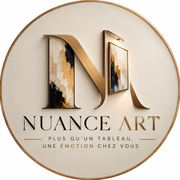
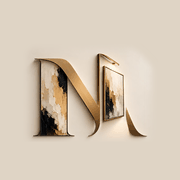
Audit SEO : icones, manifeste, donnees structurees, images
- Favicon au monogramme, lisible a 16 px, coins transparents ; favicon.ico,
  manifeste web et icones 512 (dont masquable) ; logo 56 -> 20 Ko
- JSON-LD : plus d'aggregateRating (notes de demonstration), logo du Store
  au lieu d'og.jpg inexistant, URL absolues avec barre finale, promo
  appliquee aux deux bornes de prix, collections en ItemList
- Descriptions ramenees sous ~160 caracteres, titres sans doublon de marque,
  image de partage sur les pages collection
- Accueil : vignettes 520 px + srcset pour la cimaise et les collections
  au lieu des originaux de 1400 px

diff --git a/app/(boutique)/tableaux/[slug]/page.js b/app/(boutique)/tableaux/[slug]/page.js
@@ -20,16 +20,24 @@ export async function generateStaticParams() {
   return produits.map((p) => ({ slug: p.slug }));
 }
 
+/* Google coupe vers 155-160 caracteres : on coupe nous-memes, sur un mot,
+   plutot que de laisser tomber la fin au hasard d'un titre long. */
+function resume(texte, max = 158) {
+  if (texte.length <= max) return texte;
+  return `${texte.slice(0, max - 1).replace(/[\s,;:.—-]+\S*$/, '')}…`;
+}
+
 export async function generateMetadata({ params }) {
   const { slug } = await params;
   const p = await lireProduit(slug);
   if (!p) return { title: 'Œuvre introuvable' };
   return {
     title: `${p.titre} — ${p.artiste}`,
-    description:
-      `${p.titre} de ${p.artiste}, tirage d’art imprimé et encadré à Casablanca. `
-      + `Cinq formats de ${p.tailles[0].l} × ${p.tailles[0].h} à ${p.tailles.at(-1).l} × ${p.tailles.at(-1).h} cm. `
-      + 'Essayez l’œuvre sur la photo de votre mur avant de commander.',
+    description: resume(
+      `${p.titre} (${p.artiste}), tirage d’art encadré à Casablanca en ${p.tailles.length} formats, `
+      + `du ${p.tailles[0].l} × ${p.tailles[0].h} au ${p.tailles.at(-1).l} × ${p.tailles.at(-1).h} cm. `
+      + 'Essayez-le sur la photo de votre mur.',
+    ),
     alternates: { canonical: `/tableaux/${p.slug}` },
     openGraph: {
       title: `${p.titre} — Nuance Art`,
@@ -63,19 +71,17 @@ export default async function PageProduit({ params }) {
     description: produit.description,
     brand: { '@type': 'Brand', name: 'Nuance Art' },
     category: nomTheme(produit.theme),
-    aggregateRating: {
-      '@type': 'AggregateRating',
-      ratingValue: produit.note.toFixed(1),
-      reviewCount: produit.avis,
-    },
+    // Pas d'aggregateRating : les notes du catalogue sont des valeurs de
+    // demonstration (scripts/build_catalogue.mjs), pas des avis clients. Les
+    // declarer a Google enfreint sa politique sur les avis (action manuelle).
     offers: {
       '@type': 'AggregateOffer',
       priceCurrency: 'MAD',
       lowPrice: Math.round(produit.tailles[0].prix * (1 - (produit.promo || 0) / 100)),
-      highPrice: produit.tailles.at(-1).prix,
+      highPrice: Math.round(produit.tailles.at(-1).prix * (1 - (produit.promo || 0) / 100)),
       offerCount: produit.tailles.length,
       availability: 'https://schema.org/InStock',
-      url: `${SITE}/tableaux/${produit.slug}`,
+      url: `${SITE}/tableaux/${produit.slug}/`,
     },
   };
 
@@ -83,9 +89,9 @@ export default async function PageProduit({ params }) {
     '@context': 'https://schema.org',
     '@type': 'BreadcrumbList',
     itemListElement: [
-      { '@type': 'ListItem', position: 1, name: 'Accueil', item: SITE },
-      { '@type': 'ListItem', position: 2, name: 'Tableaux', item: `${SITE}/tableaux` },
-      { '@type': 'ListItem', position: 3, name: nomTheme(produit.theme), item: `${SITE}/collections/${produit.theme}` },
+      { '@type': 'ListItem', position: 1, name: 'Accueil', item: `${SITE}/` },
+      { '@type': 'ListItem', position: 2, name: 'Tableaux', item: `${SITE}/tableaux/` },
+      { '@type': 'ListItem', position: 3, name: nomTheme(produit.theme), item: `${SITE}/collections/${produit.theme}/` },
       { '@type': 'ListItem', position: 4, name: produit.titre },
     ],
   };

diff --git a/app/(boutique)/collections/[theme]/page.js b/app/(boutique)/collections/[theme]/page.js
@@ -11,6 +11,8 @@ import { THEMES, THEME_PAR_SLUG } from '@/lib/taxonomie';
    Sans effet sur l'export statique, qui ignore la revalidation. */
 export const revalidate = 120;
 
+const SITE = process.env.NEXT_PUBLIC_SITE_URL || 'http://localhost:3210';
+
 
 export function generateStaticParams() {
   return THEMES.map((t) => ({ theme: t.slug }));
@@ -20,11 +22,14 @@ export async function generateMetadata({ params }) {
   const { theme } = await params;
   const t = THEME_PAR_SLUG[theme];
   if (!t) return {};
+  const premiere = (await lireProduits()).find((p) => p.theme === theme);
   return {
     title: `${t.nom} — tableaux et affiches`,
-    description: `${t.seo} Imprimé et encadré à Casablanca, livré en 48 h au Maroc. Essayez l’œuvre sur la photo de votre mur avant de commander.`,
+    description: `${t.seo} Imprimé et encadré à Casablanca, livré en 48 h au Maroc.`,
     alternates: { canonical: `/collections/${t.slug}` },
-    openGraph: { title: `${t.nom} — Nuance Art`, description: t.accroche },
+    // Un openGraph declare ici remplace celui du parent, image comprise :
+    // sans cette ligne, la page se partage sans visuel.
+    openGraph: { title: `${t.nom} — Nuance Art`, description: t.accroche, images: premiere ? [{ url: premiere.image }] : undefined },
   };
 }
 
@@ -41,12 +46,19 @@ export default async function PageCollection({ params }) {
     '@type': 'CollectionPage',
     name: t.nom,
     description: t.seo,
-    hasPart: produits.slice(0, 12).map((p) => ({
-      '@type': 'Product',
-      name: p.titre,
-      image: p.image,
-      offers: { '@type': 'Offer', price: p.prixMin, priceCurrency: 'MAD' },
-    })),
+    url: `${SITE}/collections/${t.slug}/`,
+    // Une liste de liens vers les fiches, qui portent chacune leur Product
+    // complet : Google ne lit pas de Product sans page propre ni URL.
+    mainEntity: {
+      '@type': 'ItemList',
+      numberOfItems: produits.length,
+      itemListElement: produits.slice(0, 20).map((p, i) => ({
+        '@type': 'ListItem',
+        position: i + 1,
+        url: `${SITE}/tableaux/${p.slug}/`,
+        name: p.titre,
+      })),
+    },
   };
 
   return (

diff --git a/app/(boutique)/page.js b/app/(boutique)/page.js
@@ -22,9 +22,8 @@ export const revalidate = 120;
 export const metadata = {
   title: 'Nuance Art — Calligraphie, zellige et art traditionnel encadrés',
   description:
-    'Calligraphies arabes, zelliges, tapis anciens et enluminures, imprimés au pigment et '
-    + 'encadrés à Casablanca. Une galerie d’art traditionnel pensée pour les intérieurs '
-    + 'marocains. Livraison 48 h partout au Maroc.',
+    'Calligraphies arabes, zelliges, tapis anciens et enluminures imprimés au pigment et '
+    + 'encadrés à Casablanca, pour les intérieurs marocains. Livraison 48 h au Maroc.',
   alternates: { canonical: '/' },
 };
 
@@ -92,7 +91,7 @@ export default async function Accueil() {
 
   // une image de couverture et un décompte par collection
   const couvertures = Object.fromEntries(
-    THEMES.map((t) => [t.slug, produits.find((p) => p.theme === t.slug)?.image]),
+    THEMES.map((t) => [t.slug, produits.find((p) => p.theme === t.slug)]),
   );
   const compte = produits.reduce((acc, p) => ({ ...acc, [p.theme]: (acc[p.theme] || 0) + 1 }), {});
 
@@ -204,9 +203,19 @@ export default async function Accueil() {
         </Reveal>
 
         <div className="collections">
-          {THEMES.slice(0, 7).map((t) => (
+          {THEMES.slice(0, 7).map((t, i) => (
             <Link key={t.slug} href={`/collections/${t.slug}`} className="col-card">
-              {couvertures[t.slug] && <img src={couvertures[t.slug]} alt="" loading="lazy" />}
+              {couvertures[t.slug] && (
+                // la vignette de 520 px suffit aux petites cartes ; l'original ne
+                // part que pour la grande carte d'un ecran dense
+                <img
+                  src={couvertures[t.slug].thumb}
+                  srcSet={`${couvertures[t.slug].thumb} 520w, ${couvertures[t.slug].image} 1400w`}
+                  sizes={i === 0 ? '(max-width: 779px) 45vw, 560px' : '(max-width: 779px) 45vw, 280px'}
+                  alt=""
+                  loading="lazy"
+                />
+              )}
               <div>
                 <h3>{t.nom}</h3>
                 <span>{compte[t.slug] || 0} œuvres</span>

diff --git a/app/(boutique)/bestsellers/page.js b/app/(boutique)/bestsellers/page.js
@@ -11,12 +11,14 @@ import { IcoFleche } from '@/components/Icones';
    Sans effet sur l'export statique, qui ignore la revalidation. */
 export const revalidate = 120;
 
+const SITE = process.env.NEXT_PUBLIC_SITE_URL || 'http://localhost:3210';
+
 
 export const metadata = {
   title: 'Best-sellers — les tableaux les plus vendus',
   description:
     'Les œuvres les plus commandées chez Nuance Art : calligraphies, zelliges, tapis anciens '
-    + 'et enluminures encadrés à Casablanca. Notes clients, formats, livraison 48 h au Maroc.',
+    + 'et enluminures encadrés à Casablanca, livrés en 48 h au Maroc.',
   alternates: { canonical: '/bestsellers' },
 };
 
@@ -41,7 +43,7 @@ export default async function PageBestsellers() {
     itemListElement: best.slice(0, 20).map((p, i) => ({
       '@type': 'ListItem',
       position: i + 1,
-      url: `/tableaux/${p.slug}`,
+      url: `${SITE}/tableaux/${p.slug}/`,
       name: p.titre,
     })),
   };

diff --git a/app/manifest.js b/app/manifest.js
@@ -1,0 +1,22 @@
+// Exige par l'export statique (BUILD_TARGET=static), sans effet sinon.
+export const dynamic = 'force-static';
+
+/* Manifeste web : nom et icones quand on ajoute le site a l'ecran d'accueil
+   (Android, Chrome, Edge). Les couleurs reprennent le fond sombre de l'entete. */
+export default function manifest() {
+  return {
+    name: 'Nuance Art — Art traditionnel encadré au Maroc',
+    short_name: 'Nuance Art',
+    description: 'Calligraphie, zellige, tapis anciens et enluminures, imprimés et encadrés à Casablanca.',
+    lang: 'fr',
+    start_url: '/',
+    display: 'standalone',
+    background_color: '#16120e',
+    theme_color: '#16120e',
+    icons: [
+      { src: '/icon.png', sizes: '192x192', type: 'image/png' },
+      { src: '/icon-512.png', sizes: '512x512', type: 'image/png' },
+      { src: '/icon-maskable-512.png', sizes: '512x512', type: 'image/png', purpose: 'maskable' },
+    ],
+  };
+}

diff --git a/app/(boutique)/personnaliser/page.js b/app/(boutique)/personnaliser/page.js
@@ -2,10 +2,10 @@ import Link from 'next/link';
 import Personnaliser from '@/components/Personnaliser';
 
 export const metadata = {
-  title: 'Personnaliser mon tableau — votre photo imprimée et encadrée',
+  title: 'Personnaliser mon tableau — votre photo encadrée',
   description:
-    'Envoyez votre photo, choisissez le format et le cadre, et recevez votre tableau '
-    + 'imprimé au pigment et encadré à la main à Casablanca. Livraison 48 h partout au Maroc.',
+    'Envoyez votre photo, choisissez format et cadre : votre tableau est imprimé au pigment '
+    + 'et encadré à la main à Casablanca. Livraison 48 h au Maroc.',
   alternates: { canonical: '/personnaliser' },
 };
 

diff --git a/app/(boutique)/tableaux/page.js b/app/(boutique)/tableaux/page.js
@@ -11,11 +11,10 @@ export const revalidate = 120;
 
 
 export const metadata = {
-  title: 'Tous les tableaux — catalogue Nuance Art',
+  title: 'Tous les tableaux — catalogue d’art encadré',
   description:
-    'Parcourez le catalogue complet : calligraphie arabe, zellige, tapis anciens, '
-    + 'enluminures, scènes du Maroc et d’Andalousie. Filtrez par format '
-    + 'dominante et pièce de la maison.',
+    'Le catalogue complet : calligraphie arabe, zellige, tapis anciens, enluminures, '
+    + 'scènes du Maroc et d’Andalousie. Filtrez par collection, format et pièce.',
   alternates: { canonical: '/tableaux' },
 };
 

diff --git a/app/(boutique)/studio/page.js b/app/(boutique)/studio/page.js
@@ -16,9 +16,8 @@ export const revalidate = 120;
 export const metadata = {
   title: 'Studio d’essayage — voyez l’œuvre sur votre mur',
   description:
-    'Chargez la photo de votre pièce, choisissez une œuvre et voyez-la à la taille réelle '
-    + 'sur votre mur : formats, cadres, mur de cadres. Gratuit, sans inscription, et vos '
-    + 'photos ne quittent pas votre appareil.',
+    'Voyez l’œuvre à taille réelle sur la photo de votre mur : formats, cadres, mur de '
+    + 'cadres. Gratuit, sans inscription, vos photos restent sur votre appareil.',
   alternates: { canonical: '/studio' },
 };
 

diff --git a/components/FicheProduit.jsx b/components/FicheProduit.jsx
@@ -98,7 +98,7 @@ export default function FicheProduit({ produit, oeuvresStudio, pieces, whatsapp 
           <h1 className="d2">{produit.titre}</h1>
 
           <div className="row" style={{ gap: '0.6rem' }}>
-            <span className="stars" aria-label={`Note ${produit.note} sur 5`}>
+            <span className="stars" role="img" aria-label={`Note ${produit.note} sur 5`}>
               {[0, 1, 2, 3, 4].map((i) => <IcoEtoile key={i} size={13} plein={i < Math.round(produit.note)} />)}
             </span>
             <span className="tiny muted">{produit.note.toFixed(1)} · {produit.avis} avis</span>

diff --git a/components/CarteProduit.jsx b/components/CarteProduit.jsx
@@ -71,7 +71,7 @@ export default function CarteProduit({ produit, priority = false, cadre = 'noir'
             </>
           )}
         </span>
-        <span className="stars" aria-label={`Note ${produit.note} sur 5`}>
+        <span className="stars" role="img" aria-label={`Note ${produit.note} sur 5`}>
           {[0, 1, 2, 3, 4].map((i) => <IcoEtoile key={i} size={11} plein={i < Math.round(produit.note)} />)}
           <span className="tiny muted" style={{ marginLeft: 4 }}>({produit.avis})</span>
         </span>

diff --git a/components/HeroScene.jsx b/components/HeroScene.jsx
@@ -64,7 +64,9 @@ export default function HeroScene({ oeuvres = [] }) {
             >
               <div className="mat">
                 <img
-                  src={oe.image}
+                  src={oe.thumb}
+                  srcSet={`${oe.thumb} 520w, ${oe.image} 1400w`}
+                  sizes="(max-width: 560px) 250px, 330px"
                   alt={k === i ? `${oe.titre}, ${oe.artiste}` : ''}
                   loading={k === 0 ? 'eager' : 'lazy'}
                   fetchPriority={k === 0 ? 'high' : 'auto'}

diff --git a/app/(boutique)/layout.js b/app/(boutique)/layout.js
@@ -80,9 +80,11 @@ export default async function RootLayout({ children }) {
   const jsonLd = {
     '@context': 'https://schema.org',
     '@type': 'Store',
+    '@id': `${SITE}/#boutique`,
     name: 'Nuance Art',
     url: SITE,
-    image: `${SITE}/og.jpg`,
+    logo: `${SITE}/logo.png`,
+    image: `${SITE}/logo.png`,
     description: 'Galerie d’art traditionnel en ligne : calligraphie, zellige, tapis et enluminures encadrés à Casablanca.',
     telephone: reglages.telephone,
     email: reglages.email,
